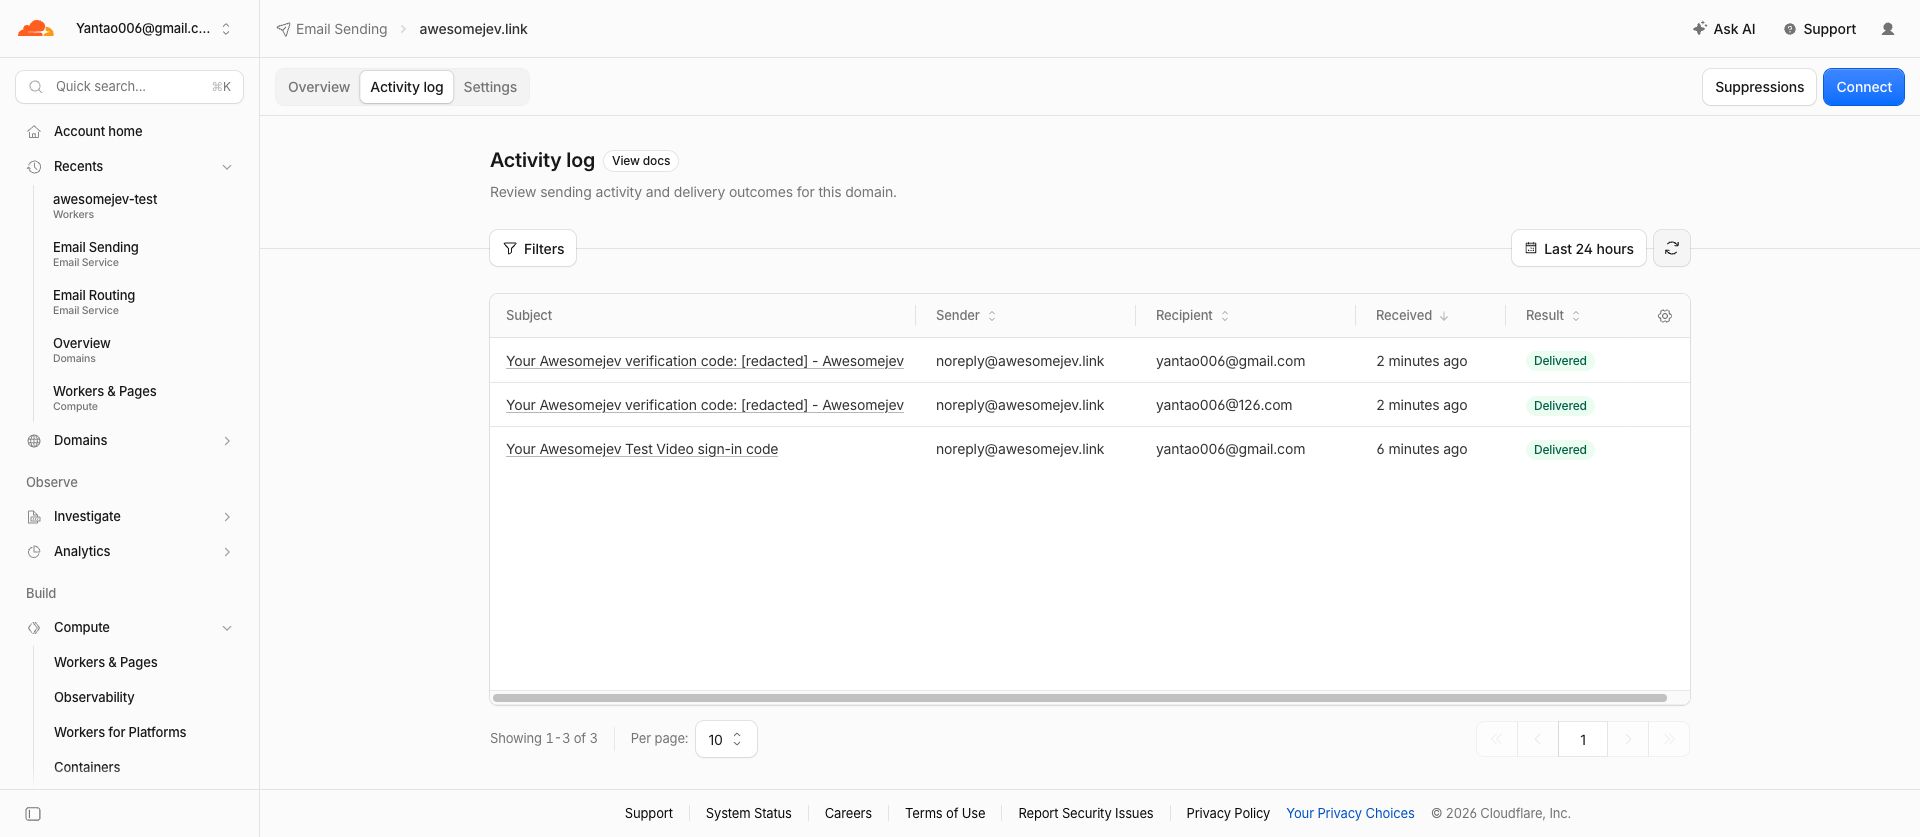
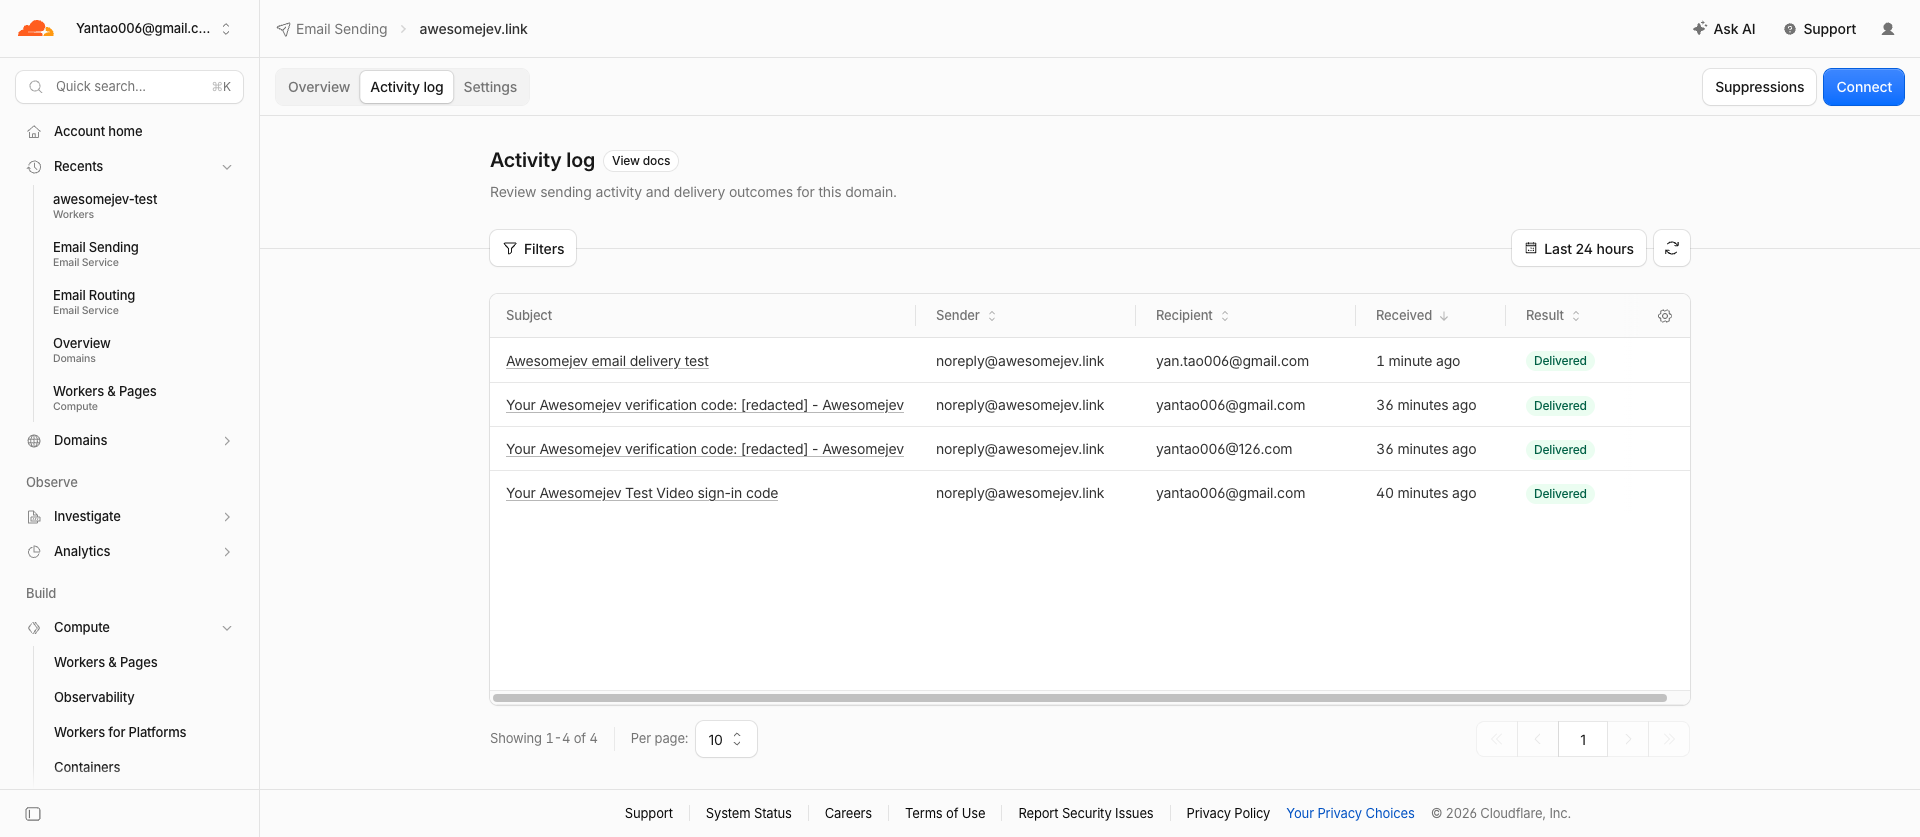
Verify unrestricted recipient sending and rejection handling

diff --git a/test/auth-integration.test.ts b/test/auth-integration.test.ts
@@ -83,10 +83,11 @@ test('OTP send reports mail service rejection instead of opening an unusable cod
     assert.equal(failure.status, 502);
     assert.equal((await failure.json() as { error: string }).error, 'Could not send sign-in code');
     const mail = new FakeEmail();
-    const success = await handleAuthWithCodeDelivery(request('agent@example.com'), env, mail);
-    assert.equal(success.status, 200);
-    assert.equal(mail.sent.length, 1);
-    assert.equal(mail.sent[0].to, 'agent@example.com');
+    for (const email of ['agent@example.com', 'person@outlook.com', 'reader@proton.me']) {
+      const success = await handleAuthWithCodeDelivery(request(email), env, mail);
+      assert.equal(success.status, 200);
+    }
+    assert.deepEqual(mail.sent.map(message => message.to), ['agent@example.com', 'person@outlook.com', 'reader@proton.me']);
   } finally { await mf.dispose(); }
 });
 

diff --git a/test/config-email-auth.test.ts b/test/config-email-auth.test.ts
@@ -75,7 +75,9 @@ test('OTP mail uses the site email brand, 15-minute copy and escaped centered co
   assert.match(email.sent[2].subject, new RegExp(secondSite.brand));
 });
 
-test('provider selection fails closed and Resend propagates failure', async () => {
+test('Cloudflare binding has no recipient allowlist, and provider propagates acknowledgement', async () => {
+  const config = JSON.parse(readFileSync('wrangler.jsonc', 'utf8')) as { send_email: unknown };
+  assert.deepEqual(config.send_email, [{ name: 'EMAIL' }]);
   assert.throws(() => createEmailProvider(site,{DB:null as never}),/EMAIL binding missing/);
   const unacknowledged = createEmailProvider(site, { DB: null as never, EMAIL: { async send() { return {}; } } });
   await assert.rejects(() => notifySignInCode(unacknowledged, site, 'user@example.com', '012345'), /did not acknowledge/);

diff --git a/docs/verification/email-otp-dialog/README.md b/docs/verification/email-otp-dialog/README.md
@@ -57,6 +57,21 @@ That status is evidence of downstream SMTP acceptance, not proof the emails appe
 The inbox and a prior full login prove the primary-address path only; the new Gmail and 126 sign-ins were not completed.
 A regression test simulates provider rejection and asserts HTTP 502 rather than an unusable code dialog.
 
+## Arbitrary recipient check
+
+`wrangler.jsonc` declares `send_email: [{ name: 'EMAIL' }]` with no `destination_address` or `allowed_destination_addresses` restriction.
+The configured sender domain `awesomejev.link` is enabled under Cloudflare Email Sending, not just Email Routing.
+The application forwards the supplied recipient to the provider without comparing it against a recipient list.
+The Miniflare regression covers accepted addresses on three different domains (`example.com`, `outlook.com`, `proton.me`) and a rejected provider send returning HTTP 502.
+Cloudflare's documented limit is that onboarding the sender domain permits sending to any recipient, subject to ordinary provider validation, suppression and delivery outcomes:
+
+https://developers.cloudflare.com/email-service/platform/limits/
+
+At 04:08:27 UTC, an independent Cloudflare Email Sending test addressed `yan.tao006@gmail.com`, which is absent from all three original test addresses and from the verified destination list.
+The Wrangler Email Sending command returned `Queued for: yan.tao006@gmail.com`; the Cloudflare activity log then reported **Delivered** for that exact recipient and no observed bounce.
+This test used the provider sending command directly rather than the OTP application route because the shared `popovers` preview alias belongs to another workstream; no alias was overwritten and no new Worker version was uploaded.
+It proves provider acceptance and downstream handoff for an unlisted recipient, not inbox visibility or a completed login for that address.
+
 ## Dialog and email visuals
 
 The earlier unsigned desktop and 390px mobile passes confirmed that only the wide code dialog remains visible after send, that Use a different email restores focus to the email input, and that the close X exits the entire sign-in flow.

diff --git a/AGENTS.md b/AGENTS.md
@@ -259,6 +259,7 @@ When `email.passwordReset` is on, the forgot-password link is sent through `Emai
 Grant source IDs, entry idempotency keys, and task state transitions make retries observable. A verified annual payment calls `grantSubscriptionMonth` for the current calendar month only. There is no separate billing scheduler.
 `src/lib/email.ts` chooses Cloudflare Email or Resend behind `EmailProvider`, requires Cloudflare's acknowledgement ID, and `src/lib/notifications.ts` composes and escapes localized mail, including a site-branded six-digit sign-in code card, verification and password reset links.
 Cloudflare Email Sending must be onboarded for each sender domain to reach arbitrary recipients; an Email Routing-only binding is limited to verified destination addresses, even when Wrangler labels it unrestricted.
+The reference site's `EMAIL` binding has no recipient allowlist; the app forwards the entered email to the provider, which may still reject invalid or suppressed recipients.
 The email OTP plugin in `src/lib/auth.ts` explicitly keeps the code valid for 15 minutes, matching the dialog and mail copy; a successful binding send is not proof of final mailbox delivery.
 
 ### Current state and extension paths

diff --git a/README.md b/README.md
@@ -120,6 +120,7 @@ Apply D1 migrations before deploying a build that enables invitations.
 Credentials are never committed to `site/` or D1.
 `site-check` compares the Worker, D1, R2, Queue and email bindings with site configuration and secret declarations.
 Cloudflare Email is the default adapter; sending to unverified recipient addresses requires onboarding this site's sender domain to Email Sending on a Workers Paid account, in addition to the `EMAIL` binding.
+The `EMAIL` binding has no recipient allowlist and forwards any valid email address to Email Sending; the provider may still reject invalid or suppressed recipients.
 The Cloudflare adapter requires an acknowledgement ID, and the OTP send route returns an error if sending fails instead of reporting a false success.
 Resend is selectable through `site.email.provider` and needs `RESEND_API_KEY`.
 Notification functions use fake email in tests; they are not connected to real video or payment events.
